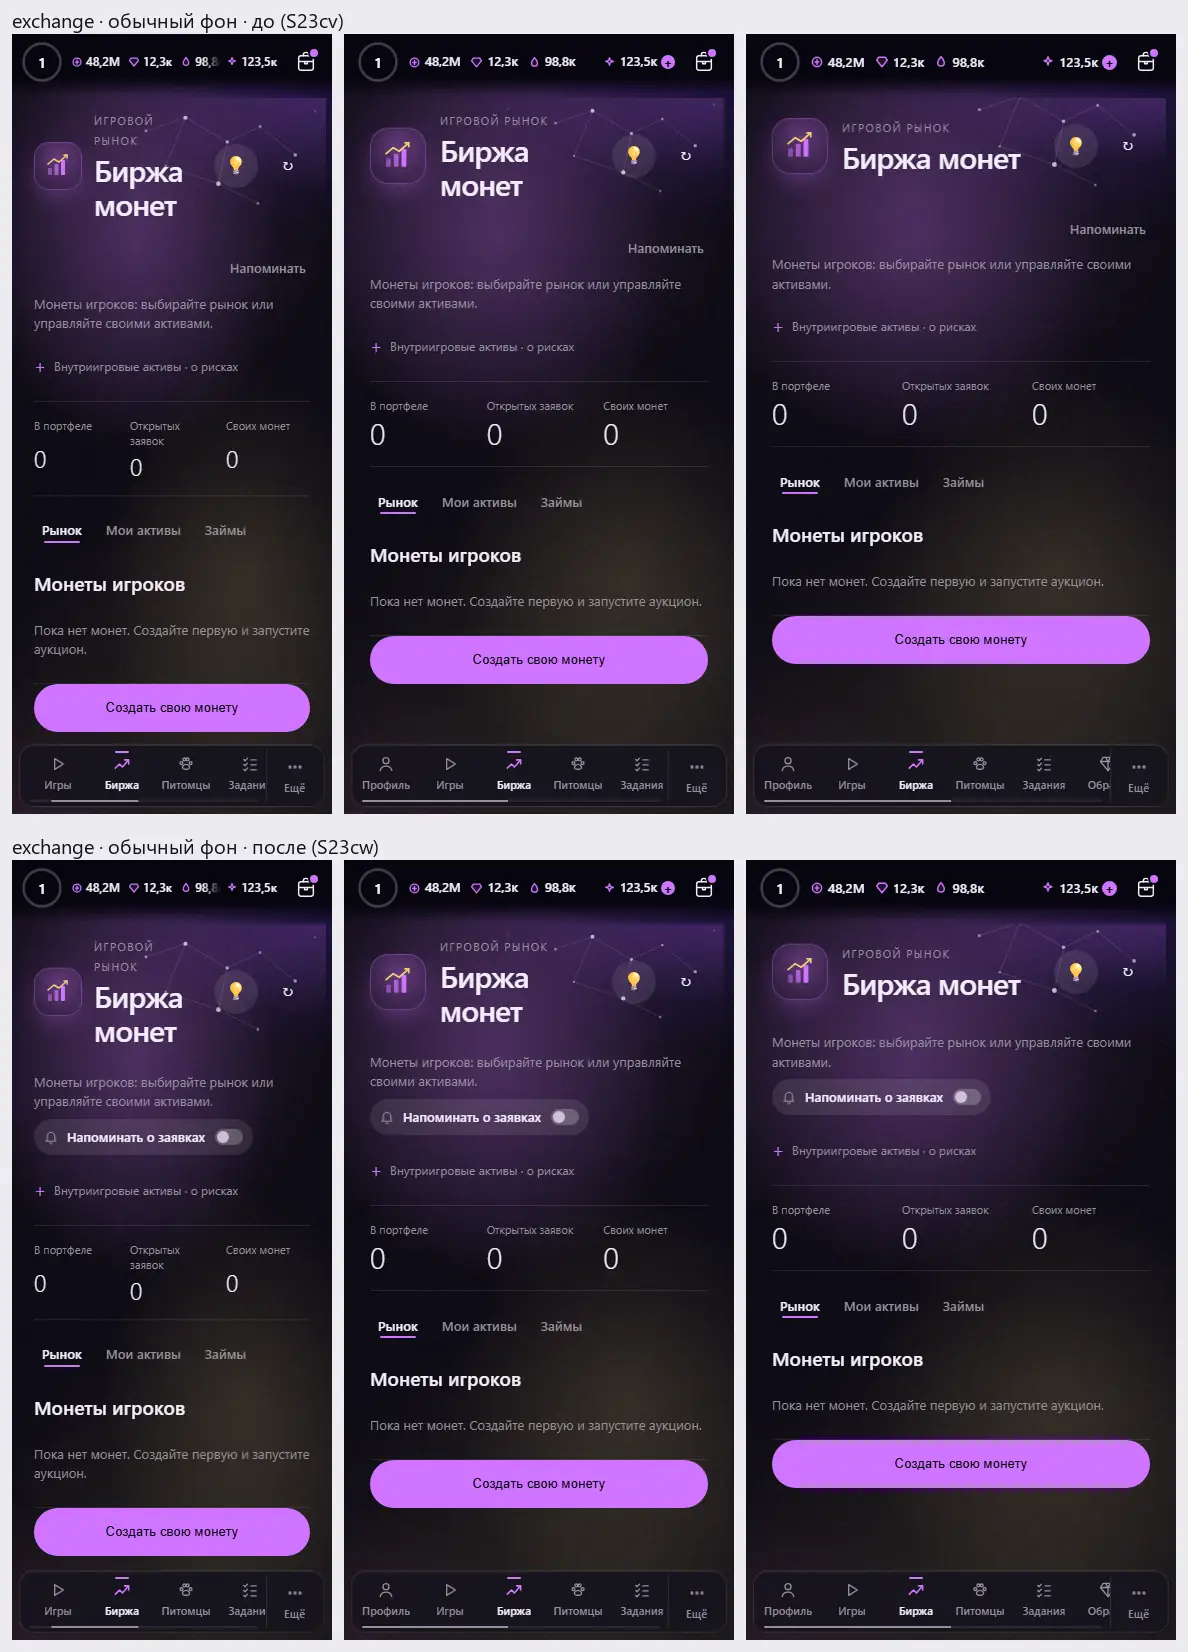
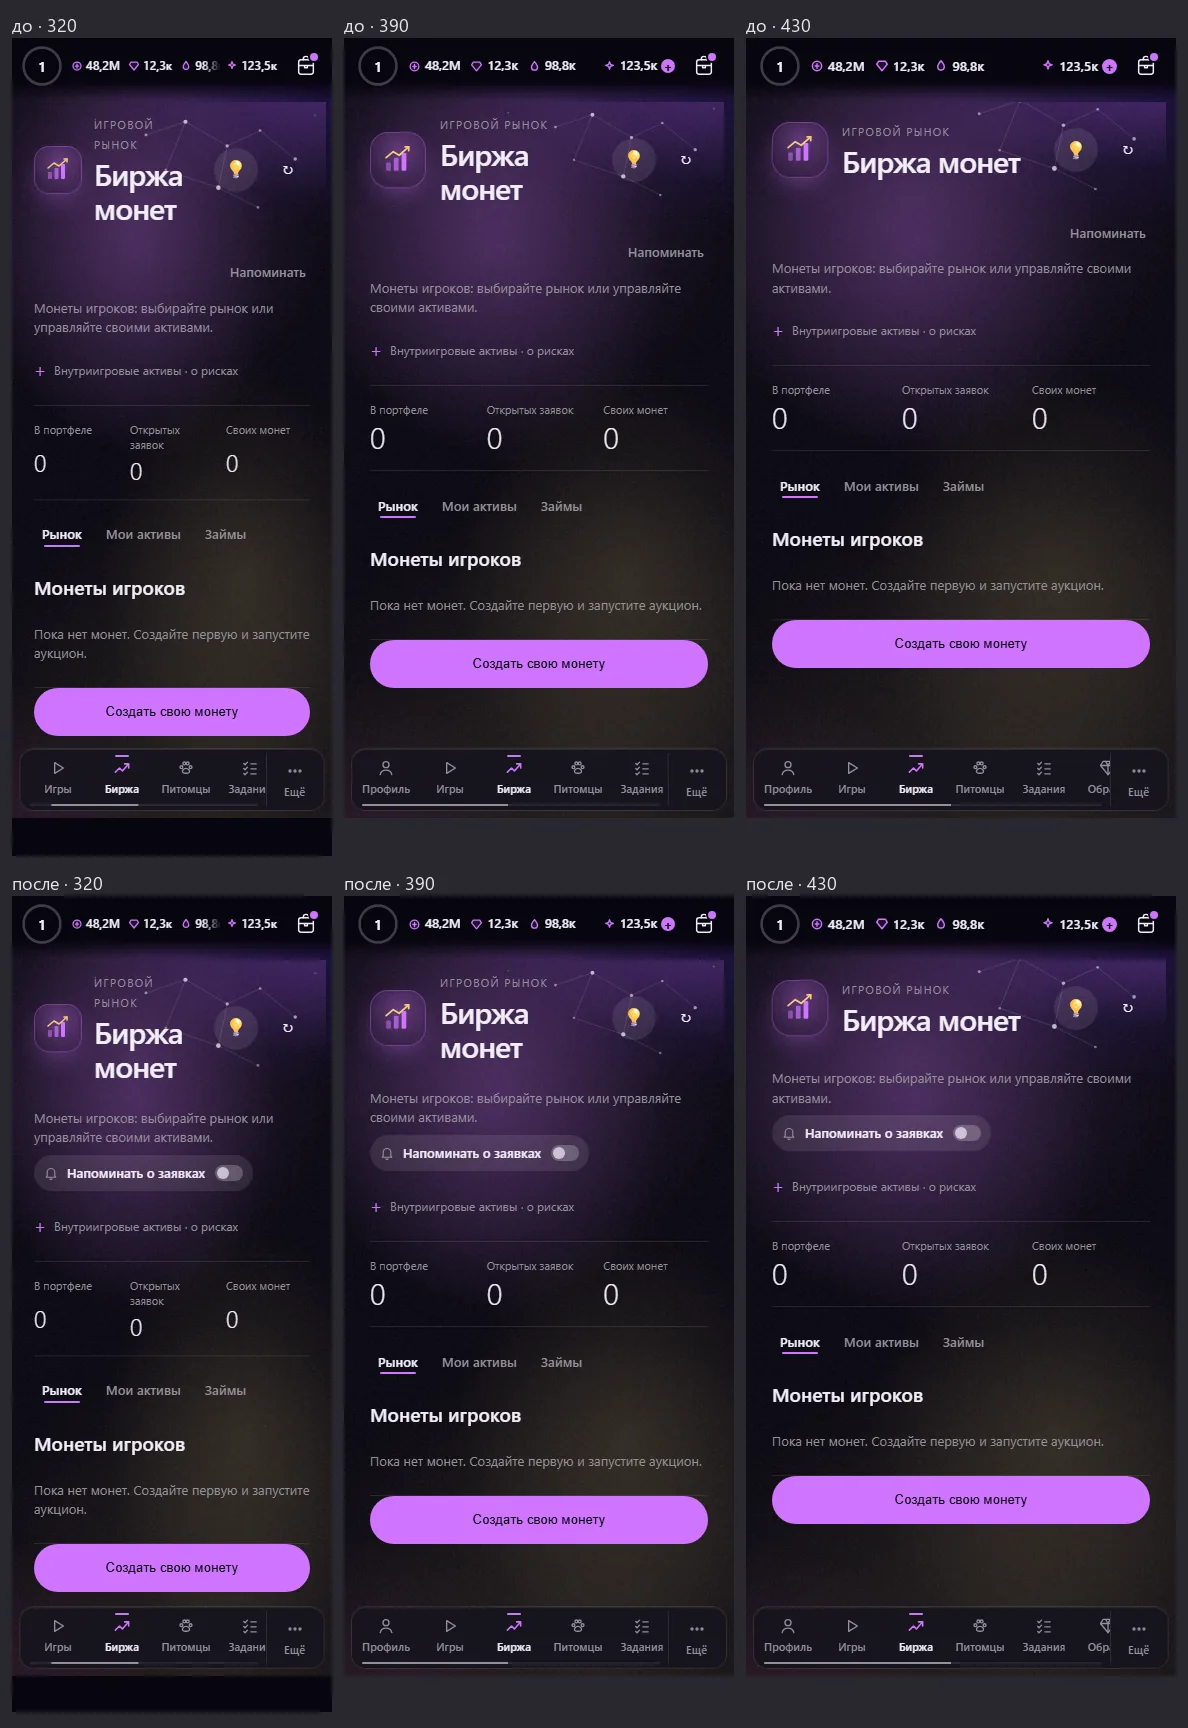
docs(predvestnik): итог S23cw, финальные снимки и письма до/после
Снимки 320/390/430 на обычном и чёрном фоне пересняты после переноса на master,
добавлены VIP и «Настройки»; письма лички до/после из симулятора.
Roadmap: S23cw

diff --git a/predvestnik_v2/docs/roadmap/sessions/S23-lichka-uvedomleniya.md b/predvestnik_v2/docs/roadmap/sessions/S23-lichka-uvedomleniya.md
@@ -257,6 +257,36 @@
 
 Проверки после ревью (свой кластер 127.0.0.1:55467, база из `tpl_boot` перед каждым прогоном): симулятор 82/83 (тот же известный красный `report_card_heavy_bans_only_for_the_creator`; `dm_social_events…` и `dm_morning_plan…` дополнены проверками без срока и без повтора); `ui_smoke` 9 экранов × 320/390/430 — 27/27 на обычном и на чёрном фоне, `--big` 5 экранов × 320/360/390 — 15/15; `test_reminder_switch_browser.py` зелёный (17 с); `run_fast_tests.py` 137/137; `test_bot_economy_review_pg.py`, `test_pass_race_pg.py`, `test_vip_v2_pg.py`, `test_telegram_widgets_contract.py`, `test_guide_navigation.js`, `test_patch_notes_contract.py`, `test_whatsnew_v3_contract.py` зелёные. `test_chat_bot_pg.py` (в карантине) по-прежнему падает раньше перевода, на мутах (`sanctions_flow`), как и без S23cw; `test_profile_release_experience.py` и `test_shell_v3_contract.py` — известные красные, не эта работа. Снимки и `dm-after.txt` пересняты.
 
+### Итог S23cw (2026-11-16)
+
+**Что изменилось для игрока.** На «Сундуках», «Заданиях», «Питомцах» и «Бирже» вместо серого слова «Напоминать» и листа с «Включить» — переключатель «🔔 Напоминать о ключах / заданиях / питомцах / заявках»: видно, включено ли, нажатие сразу включает или выключает. Если чат с ботом не открыт, переключатель приглушён и подписан «Сначала открой чат с ботом», а нажатие ведёт к «Открыть чат». Письма лички — заголовок «что случилось» и одна строка «что сделать», кнопка называет действие. VIP-тумблер «Напоминать о поручении дня» горит, только когда письмо правда уйдёт.
+
+**Финальный проход (после независимой проверки).** Ветка перенесена на master `0a70d5d0` без конфликтов. На свежих снимках VIP нашлась сырость: письмо и строка «За 30 дней» уже говорили «Ритм, Сапёр или Мафия», а заголовок поручения, карточка «Поручение дня» и Путеводитель всё ещё обещали «одну игру» (засчитываются только эти три, `services/quests_v1.py`). Исправлено. Экраны «VIP / Зарники» и «Настройки» правились в S23cw, поэтому переведены на «ты» целиком (`docs/PLAYER_COPY.md`: правишь экран — переводи весь), а не одной строкой «Доиграйте».
+
+| Где | Было | Стало |
+|---|---|---|
+| VIP, «Поручение дня» (заголовок с сервера) | «Заверши одну игру» | «Доиграй Ритм, Сапёр или Мафию» |
+| VIP, карточка «Поручение дня» | «сыграй одну игру и получи 20 Моры…» | «доиграй Ритм, Сапёр или Мафию и получи 20 Моры…» |
+| VIP, под «За 30 дней поручений» | «Доиграйте за день Ритм, Сапёр или Мафию…» | «Доиграй за день Ритм, Сапёр или Мафию…» |
+| Путеводитель, «Поручение с VIP» и «Поручение дня» | «Сыграй одну игру за день» / «Сыграй одну игру — получи 20 Моры…» | «Доиграй за день Ритм, Сапёр или Мафию» / «Доиграй Ритм, Сапёр или Мафию — получи 20 Моры…» |
+| VIP / Зарники | «Вы выбрали «…»» · «Выберите пакет» · «Вы получите» · «ваш образ видят все» · «Как вас видят (другие)» · «Выберите срок» · «ваш образ увидят» · «нажмите «Повторить»» · «Ваш VIP даёт» · «Образ, который вы наденете…» · «Сами вы видите свой образ всегда.» | «Цель — «…»» · «Выбери пакет» · «Ты получишь» · «твой образ видят все» · «Как тебя видят (другие)» · «Выбери срок» · «твой образ увидят» · «нажми «Повторить»» · «Твой VIP даёт» · «Образ, который ты наденешь…» · «Свой образ ты видишь всегда.» |
+| «Настройки» | «Кто видит, когда вы были в сети» · «Чужое время вы видите с той же точностью, какую даёте сами.» · «…что вы сейчас в сети, не видно» · «…чужое время вы тоже видите только примерно» · «варп-команды на вас» · «Любое ваше сообщение…» · «Сменили аккаунт в приложении Telegram — обновите вход здесь.» · «нажмите, чтобы скопировать» · «откройте витрину» | «Кто видит, когда ты в сети» · «Чужое время тебе видно так же точно, как другим — твоё.» · «…что ты сейчас в сети, не видно» · «…чужое время ты тоже видишь только примерно» · «варп-команды на тебя» · «Любое твоё сообщение…» · «Другой аккаунт в Telegram? Обнови вход здесь.» · «нажми, чтобы скопировать» · «открой витрину» |
+
+Все остальные «было → стало» — в таблице «Доработка S23cw» выше. Письма целиком — `shots/S23cw/dm-before.txt` (master `0a70d5d0`) и `dm-after.txt` (ветка): только изменившиеся письма лички из одних и тех же сценариев симулятора.
+
+**Снимки** (`docs/roadmap/shots/S23cw/`; верхний ряд — до (S23cv), нижний — после; 320/390/430; `*-dark` обычный фон, `*-oled` чёрный): `chests`, `questlog`, `pets`, `exchange`, `store-vip`, `settings`. Только «после»: `reminder-chests` (лист «Осталось открыть чат с ботом»), `reminder-quests` (включено), `reminder-wait` (включено, чат не открыт), `big-text` и `big-text-chests` («Крупный текст», 320/360/390). Просмотрены глазами: обрезки, наездов и горизонтальной прокрутки нет; «Подсказки» не наезжают на заголовок ни на 320, ни с «Крупным текстом».
+
+**Проверки (свой кластер PG 17 на 127.0.0.1:55468, ICU und, UTC, fsync=off, данные в scratchpad; база из `tpl_boot` перед каждым прогоном).** `ui_smoke` 9 экранов × 320/390/430 — 27/27 на обычном и 27/27 на чёрном фоне, `--big` 5 экранов × 320/360/390 — 15/15, без ошибок и предупреждений; `test_reminder_switch_browser.py` зелёный; симулятор Telegram 72/73 (на master тоже 72/73, тот же известный красный `report_card_heavy_bans_only_for_the_creator`; сценариев меньше прежних 83, потому что master убрал виджеты); `run_fast_tests.py` 137/137; `test_player_copy_contract.py`, `test_guide_coverage.py`, `test_guide_navigation.js`, `test_patch_notes_contract.py`, `test_whatsnew_v3_contract.py`, `test_ui_smoke_screens_contract.py`, `test_vip_v2_pg.py`, `test_pass_race_pg.py`, `test_bot_economy_review_pg.py`, `test_auth_recovery_browser.py` — зелёные.
+
+**Вердикт независимой проверки.** 18 замечаний ревью (длина письма об образах и его проверка, переключатель «вкл» без чата и при паузе бота, два вида письма о переводе, «Подсказки» на 320 и с «Крупным текстом», место переключателя на «Бирже», «любая игра» у VIP, «сутки» в письмах о браке и семье, повтор утреннего плана, экран «бот уведомления», «монеты» на бирже, письмо о конце сезона, старая фраза в PG-тесте, `test_gate.json`, зависимость снимков от прошлых прогонов) перепроверены — ни одно не подтвердилось.
+
+**Остаток.**
+- Ждёт «ок» владельца по снимкам; до него в master не вливать. После «ок»: запись «Что нового» и патч-нот дня выпуска (изменение видно игроку), повторить `test_reminder_switch_browser.py` и `ui_smoke` на master.
+- «Биржа» («выбирайте рынок», «Создайте первую…») и `бот vip` в чате («Выберите срок») ещё на «вы» — их тексты S23cw не правила; перевести целиком отдельной правкой.
+- «Пока тебя не было» может дважды показать «Новые задания дня уже ждут» (два дня в одной сводке) — сводку S23cw не меняла; склеивать одинаковые строки отдельной правкой.
+- «Питомцы» с «Крупным текстом» на 360: слово «Выслеживание» в карточке «Сыграть сейчас» почти касается края — не S23cw, смотреть вместе с вёрсткой питомцев.
+- `ui_smoke`: сценарий `reminder-chests` по-настоящему включает «Сундуки» у персоны, и `settings` позже в том же прогоне видит включённую строку; поэтому `settings` и `store-vip` снимались отдельным прогоном. Сделать сценарий возвращающим согласие — отдельной правкой.
+
 ### Остаток S23d
 
 Взята часть, которой не нужны решения владельца (страницы и предел карточек). Остальное перенесено в S23e.
